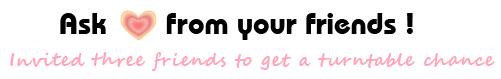
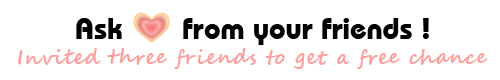
facebook_pintu_icon

Changed region(s): [[0.12, 0.1266, 0.87, 0.5823], [0.0, 0.6076, 0.99, 0.8861]]

diff --git a/apps/game_app/templates/pintu_for_facebook.html b/apps/game_app/templates/pintu_for_facebook.html
@@ -503,7 +503,7 @@ removecloud();
 <div id="nouser" style="display: none;">
 	<div class="close"></div>
 	<span class="text-black" id='pair_message'>Oooooops, please try again!</span><br />
-	<span class="text-black free_chance">You still have<span id="user_count" style="color: red;"> {{count}} </span>free chance</span>
+	<span class="text-black free_chance">You still have <span id="user_count" style="color: red;"> {{count}} </span>  free chances</span>
 	<img src="{{STATIC_URL}}img/拼图-01.png"  style="margin-top: 30px;"/>
 	<div class="push try_again " style="left:90px; top: 320px;">Play again</div>
 </div>
@@ -824,6 +824,20 @@ function loadStage() {
 				$('#invite').show('slow');
 			}
 		});
+		
+		$('.button_type_1').mouseover(function(){
+			if (this.style.backgroundImage=='url("/static/img/buy.png")' ||this.style.backgroundImage=="url(http://127.0.0.1/static/img/buy.png)"){
+			   this.style.backgroundImage='url("/static/img/buy2.png")';
+			   }else if(this.style.backgroundImage=='url("/static/img/ask_friend.png")' ||this.style.backgroundImage=="url(http://127.0.0.1/static/img/ask_friend.png)"){
+			   this.style.backgroundImage='url("/static/img/ask_friend2.png")';
+			   }
+			}).mouseleave(function(){
+			 if (this.style.backgroundImage=='url("/static/img/buy2.png")' ||this.style.backgroundImage=="url(http://127.0.0.1/static/img/buy2.png)"){
+			   this.style.backgroundImage='url("/static/img/buy.png")';
+			   }else if(this.style.backgroundImage=='url("/static/img/ask_friend2.png")' ||this.style.backgroundImage=="url(http://127.0.0.1/static/img/ask_friend2.png)"){
+			   this.style.backgroundImage='url("/static/img/ask_friend.png")';
+			   }
+			});
 		
 		$('#search').keyup(function(){
 			delay(function(){

diff --git a/apps/game_app/models.py b/apps/game_app/models.py
@@ -13,9 +13,9 @@ class Yuanfenjigsaw:
     uid = ''
     gender = ''
     def __init__(self,request):
-        if cache.get('TODAY') != datetime.date.today():
-            reset_game()
-            get_count(request)
+#         if cache.get('TODAY') != datetime.date.today():
+            #reset_game()
+#             get_count(request)
         self.uid = request.GET.get('uid')
         facebookUser=FacebookUser.objects.get(uid=self.uid)
         
@@ -104,7 +104,7 @@ class Yuanfenjigsaw:
             smallAvatar=matching_user.smallAvatar
             #获得照片
             from django.core import serializers
-            facebookPhotoList = serializers.serialize("json", FacebookPhoto.objects.filter(user_id=uid)[:12])
+            facebookPhotoList = serializers.serialize("json", FacebookPhoto.objects.filter(user_id=uid))
             
             return [cache.get('MATCH_SUCCESS'),pieces,{'username':username,'city':city,'age':age,'uid':uid,'facebookPhotoList':facebookPhotoList,
                                                        'avatar':avatar,'smallAvatar':smallAvatar,'game_count':cache.get('USER_GAME_COUNT').get(self.uid)+get_game_count_forever(self.uid)}]
@@ -113,8 +113,7 @@ class Yuanfenjigsaw:
         
     def generate_pieces(self):
         import random
-        number = random.randint(1,100)
-        number=3
+        number = random.randint(1,3)
         year = int(str(datetime.date.today()).split("-")[0])
         month = int(str(datetime.date.today()).split("-")[1])
         day = int(str(datetime.date.today()).split("-")[2])
